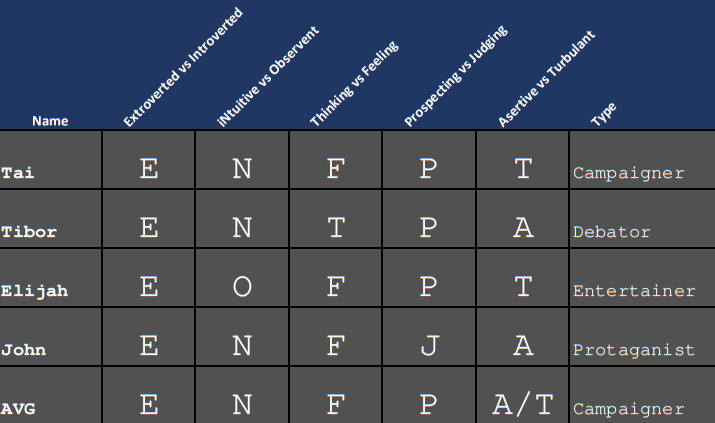
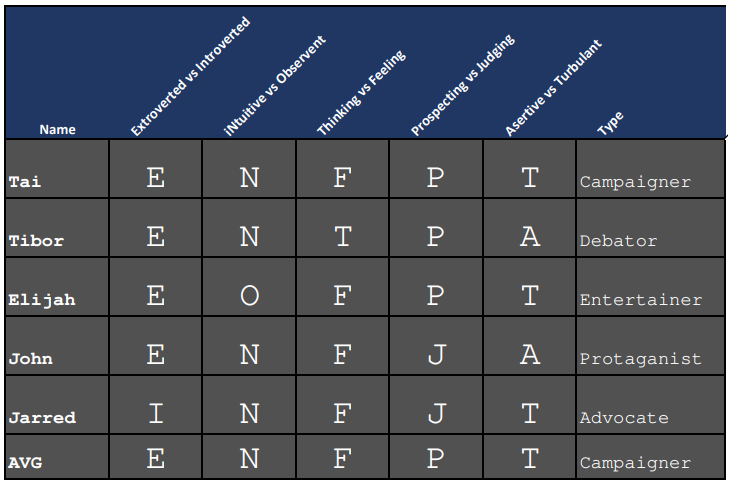
Updated Team profile with Student numbers, made back end for team profiles neater added Jarred to the team results

Changed region(s): [[0.0, 0.0, 1.0, 1.0], [0.5231, 0.0922, 0.5538, 0.1537], [0.4308, 0.0615, 0.4615, 0.0922]]

diff --git a/TeamProfile.html b/TeamProfile.html
@@ -31,6 +31,12 @@
 }
 .MarekIvanov h1 {text-align:center;
                  color: white}
+.MarekIvanov h2 {color: white;
+                text-align:center;
+                font-size: 20px;
+                font-family: 'Courier New', monospace
+                }
+        
 .MarekIvanov img{height: 200px;
                  width: auto;
                  float:left;
@@ -48,6 +54,11 @@
 .TaiTran h1 {text-align:center;
                  color: white
 }
+.TaiTran h2 {color: white;
+            text-align:center;
+            font-size: 20px;
+            font-family: 'Courier New', monospace
+            }
 .TaiTran img{height: 200px;
                  width: auto;
                  float:left;
@@ -65,6 +76,11 @@
 .TiborBulanyi h1 {text-align:center;
                   color: white
 }
+.TiborBulanyi h2 {color: white;
+                text-align:center;
+                font-size: 20px;
+                font-family: 'Courier New', monospace
+                }
 .TiborBulanyi img{height: 200px;
                   width: auto;
                   float:left;
@@ -82,6 +98,11 @@
 .ElijahGoodlet h1 {text-align:center;
                  color: white
 }
+.ElijahGoodlet h2 {color: white;
+                  text-align:center;
+                  font-size: 20px;
+                  font-family: 'Courier New', monospace
+                  } 
 .ElijahGoodlet img{height: 200px;
                    width: auto;
                    float:left;
@@ -99,6 +120,11 @@
 .JohnMufunda h1 {text-align:center;
                  color: white
 }
+.JohnMufunda h2 {color: white;
+                text-align:center;
+                font-size: 20px;
+                font-family: 'Courier New', monospace
+                }
 .JohnMufunda img{height: 200px;
                    width: auto;
                    float:left;
@@ -116,6 +142,11 @@
 .JarradHofmanAgar h1 {text-align:center;
                        color: white
 }
+.JarradHofmanAgar h2 {color: white;
+                      text-align:center;
+                      font-size: 20px;
+                      font-family: 'Courier New', monospace
+                      }
 .JarradHofmanAgar img{height: 200px;
                        width: auto;
                        float:left;
@@ -136,51 +167,97 @@
   <div class="header">
     <a href="index.html">
     <img src="Earth.jpg" alt="Earth" width="200" height="auto"></a>
-    <h1>Team Profile</h1>
+    <h1>Deep Thought's Members</h1>
     <h2><a href="TestResults.html"><b>Personality Test Results</b></a></h2>
   </div>
   <br><br>
 <div class="MarekIvanov">
-<a href="https://iffprove.github.io/Project_1/index.html"> <h1> Marek Ivanov</h1><img src="facepic.jpg" alt="Marek Ivanov"></img></a>
+<a href="https://iffprove.github.io/Project_1/index.html"> <h1> Marek Ivanov</h1><h2>SN: S3925058</h2><img src="facepic.jpg" alt="Marek Ivanov"></img></a>
+
 <p>
-Marek Ivanov was born in Estonia in the year 1995 CE. After completeing year 12, he studied diligently to be an electrician and once graduating quickly started working, manufacturing precast concrete elements for buildings across Finland. Marek came to Australia in the year 2013 in the Common Era. He started working in a custom concrete furniture studio while at the same time started learning about CNC machines, 3D printers and lasers and 3D modelling. 5 years later got a job in a modelmaking studio in Perth that uses top of the range 3d printers to make dinosaurs for museums and shows. He has been working with all aspects of 3D printing, prototyping, mold making, casting with resins and other composite materials as a freelancer and has been apart of many such projects. Marek is fluent in Estonian and English but also can speak Russian and bit of German. Marek remembers his first computer lesson fondly as a "mind blowing" experience, "The things that those computers could do was amazing". Like every other young student, Marek was in it for the games. He Played Doom3D a lot and over the years all manner of games. Seeing the rapid development in that area, from floppy discs to portable mp3 players, he was truly in awe technology, and the start of his initial interest of IT. 20 years on, Marek has learned to use many different tools from media editing, CAD design, Z Brush sculpting for 3D printing and rapid prototyping. Last Christmas, He was working on a shopfitting project where his company had to make some display windows move with stepper motors and Arduino boards. Initially he thought that would be easy to do and without much prior background took the lead on the task, quickly he understood that he didn't understand anything about it. Luckily, a friend of a friend saved the day, or night, as it were, writing the programs throughout the night in the shop. The reason Marek chose RMIT is that it gives the flexibility with time management, but also there is a sense of urgency. Having the opportunity to study on the road is great, as he likes to travel around quite a bit. So far lack of urgency has really stopped him from progressing forward with his skills. He Also likes that everything is well structured to support the learning process. Marek expect to learn new skills auch as being proficient in programming languages and techiques, and network systems. He is Looking forward to understand the methods and tools used in the computer world. Hopefully able to write useful programs that make life better at work and home.
+Marek Ivanov was born in Estonia in the year 1995 CE. After completeing year 12, he studied diligently to be an electrician and once graduating quickly started working, 
+manufacturing precast concrete elements for buildings across Finland. Marek came to Australia in the year 2013 in the Common Era. He started working in a custom concrete 
+furniture studio while at the same time started learning about CNC machines, 3D printers and lasers and 3D modelling. 5 years later got a job in a modelmaking studio in 
+Perth that uses top of the range 3d printers to make dinosaurs for museums and shows. He has been working with all aspects of 3D printing, prototyping, mold making, casting 
+with resins and other composite materials as a freelancer and has been apart of many such projects. Marek is fluent in Estonian and English but also can speak Russian and bit 
+of German. Marek remembers his first computer lesson fondly as a "mind blowing" experience, "The things that those computers could do was amazing". Like every other young 
+student, Marek was in it for the games. He Played Doom3D a lot and over the years all manner of games. Seeing the rapid development in that area, from floppy discs to 
+portable mp3 players, he was truly in awe technology, and the start of his initial interest of IT. 20 years on, Marek has learned to use many different tools from media editing, 
+CAD design, Z Brush sculpting for 3D printing and rapid prototyping. Last Christmas, He was working on a shopfitting project where his company had to make some display windows
+move with stepper motors and Arduino boards. Initially he thought that would be easy to do and without much prior background took the lead on the task, quickly he understood 
+that he didn't understand anything about it. Luckily, a friend of a friend saved the day, or night, as it were, writing the programs throughout the night in the shop. 
+The reason Marek chose RMIT is that it gives the flexibility with time management, but also there is a sense of urgency. Having the opportunity to study on the road is 
+great, as he likes to travel around quite a bit. So far lack of urgency has really stopped him from progressing forward with his skills. He Also likes that everything is 
+well structured to support the learning process. Marek expect to learn new skills auch as being proficient in programming languages and techiques, and network systems. He 
+is Looking forward to understand the methods and tools used in the computer world. Hopefully able to write useful programs that make life better at work and home.
 </p>
 </div><br><br>
 <div class="TaiTran">
-<a href="https://prettyamazinggrace.github.io/RMITassignment1/index.html"> <h1> Tai Tran</h1><img src="Tai - Headshot v1.png" alt="Tai Tran"></img></a>
+<a href="https://prettyamazinggrace.github.io/RMITassignment1/index.html"> <h1> Tai Tran</h1><h2>SN: s3918375</h2><img src="Tai - Headshot v1.png" alt="Tai Tran"></img></a>
 <p>
-Tai was born in 1987 CE, he enjoys long walks on the beach. If he can manage to find free time, sometimes he would walk 10 to 20 kilometers in the city where he lives or somewhere in nature because it helps him feel fresh, balanced and connected to the world around him. Tai's interest in IT encompasses software design, system security and artificial intelligence
-Tai's interest in IT was sparked when he was about 14 or 15 years old and starting high school, he was fascinated and amazed at how computer science and information technology can be so efficient in facilitating and improving and simplifying the way we all live, work, learn and go about our daily lives.
-He chose RMIT, because the university offers an internationally recognized high-quality education with a good environment for potential international and multicultural exchange and collaboration.
-Tai is hoping to gain in-depth knowledge into the world of computer science, to understand how computers and IT systems function and eventually create his own products with them.
+Tai was born in 1987 CE, he enjoys long walks on the beach. If he can manage to find free time, sometimes he would walk 10 to 20 kilometers in the city where he lives or somewhere
+ in nature because it helps him feel fresh, balanced and connected to the world around him. Tai's interest in IT encompasses software design, system security and artificial intelligence
+Tai's interest in IT was sparked when he was about 14 or 15 years old and starting high school, he was fascinated and amazed at how computer science and information technology can be so 
+efficient in facilitating and improving and simplifying the way we all live, work, learn and go about our daily lives. He chose RMIT, because the university offers an internationally
+recognized high-quality education with a good environment for potential international and multicultural exchange and collaboration. Tai is hoping to gain in-depth knowledge into the 
+world of computer science, to understand how computers and IT systems function and eventually create his own products with them.
+<br><br><br><br><br><br><br>
 </p>
 </div>
 <br><br>
 <div class="TiborBulanyi">
-<a href="https://tibitzu.github.io/My-Profile/"> <h1>Tibor Bulanyi</h1><img src="Tibor2.jpg" alt="Tibor Bulanyi"></img></a>
-<p>Tibor Bulanyi was born in Western Australia in 1977 CE, his father is from Hungary and his mother is from Western Australia. He hobbies include D&D, video games, world domination and of course his cat, Ronin the Rat-Slayer. Tibor completed year 12 doing a scholarship at John Curtain College of the Arts in theatre arts, originally intending to be a playwright and actor, before then starting a double major at Notre Dame University in English Literature and Philosophy, though he dropped out after 6 months due to boredom. After that, he fell into music, since he had been playing guitar since he was "knee-high to a grasshopper" and always sung. He just found that whenever he played music people just threw money at him whcih seemed better than his attempts at comedy which peoplejust laughed at, and so he made a career out of street performance and traveled the country with his guitar in hand for the next 25 years with periodic stops here and there and a trip to Europe to see his son in Belgium. Now, Tibor study IT at RMIT university. Tibor's interest in IT started like it does for most kids with video games, he had a commodore 64 for a short time, with all those oesky cassettes, before his father bought him an Amiga 1000. He was selling Star Wars figurines at the local car-boot market and so when he had enough money (around 1000 $AU) his father and him went halves in a 286 IMB compatible PC when he was 10. To his father's shock and horror, while he was out, Tibor dismantled the whole machine, and it was laying in bits on his father's office table when he returned. Tibor quickly put it back togther, but doesn't think his father ever quite recovered. He worked for a while as a computer technician when he was 14 for a year doing basic repairs, virus removal and trouble shooting. Tibor have always built his own computers from scratch to play video games and has always dreamt of making his own games.
+<a href="https://tibitzu.github.io/My-Profile/"> <h1>Tibor Bulanyi</h1><h2>SN: s3927847</h2><img src="Tibor2.jpg" alt="Tibor Bulanyi"></img></a>
+<p>Tibor Bulanyi was born in Western Australia in 1977 CE, his father is from Hungary and his mother is from Western Australia. He hobbies include D&D, video games, world domination
+  and of course his cat, Ronin the Rat-Slayer. Tibor completed year 12 doing a scholarship at John Curtain College of the Arts in theatre arts, originally intending to be a playwright
+  and actor, before then starting a double major at Notre Dame University in English Literature and Philosophy, though he dropped out after 6 months due to boredom. After that, he fell
+  into music, since he had been playing guitar since he was "knee-high to a grasshopper" and always sung. He just found that whenever he played music people just threw money at him 
+ whcih seemed better than his attempts at comedy which peoplejust laughed at, and so he made a career out of street performance and traveled the country with his guitar in hand for
+ the next 25 years with periodic stops here and there and a trip to Europe to see his son in Belgium. Now, Tibor study IT at RMIT university. Tibor's interest in IT started like 
+ it does for most kids with video games, he had a commodore 64 for a short time, with all those oesky cassettes, before his father bought him an Amiga 1000. He was selling Star Wars
+ figurines at the local car-boot market and so when he had enough money (around 1000 $AU) his father and him went halves in a 286 IMB compatible PC when he was 10. To his father's 
+ shock and horror, while he was out, Tibor dismantled the whole machine, and it was laying in bits on his father's office table when he returned. Tibor quickly put it back togther,
+ but doesn't think his father ever quite recovered. He worked for a while as a computer technician when he was 14 for a year doing basic repairs, virus removal and trouble shooting. 
+ Tibor have always built his own computers from scratch to play video games and has always dreamt of making his own games.
 </p>
 </div><br><br>
 <div class="ElijahGoodlet">
-<a href="https://elijah-goodlet.github.io/Elijah-Goodlet/index.html"> <h1>Elijah Goodlet</h1><img src="ElijahHeadshot.jpg" alt="Elijah Goodlet"></img></a>
+<a href="https://elijah-goodlet.github.io/Elijah-Goodlet/index.html"> <h1>Elijah Goodlet</h1><h2>SN: s3924904</h2><img src="ElijahHeadshot.jpg" alt="Elijah Goodlet"></img></a>
 <p>
-Elijah was born in 2002 CE and has had an interest in IT from as long as he can remember, specifically game design but also just general programming and design. He enjoys making stuff and using IT tools that allows him to do much with very little. Elijah has a fascination of his about where he can start with nothing and then output an awesome display that continues to drive him  forward. Indie game developers inspire his passion in IT. Some examples: Dani Dev, Code Bullet, Coffee stain studios. He admires their perspective on features and tools that most people overlook and take for granted. They help him appreciate the smaller parts of programs, from simple UIs to entire physics engines. Due to complications involving his previous education establishment, he received his Cert IV too late to apply to local Universities. Looking for alternatives, he found RMIT which was an IT specialist university and had late entry. It was an obvious choice especially considering the university’s good
-reputation. From this course, Elijah is keen to take away not only know how to program but also obtain a broader knowledge on IT. He is uber keen to learn to work in a university environment and the associated pressure and responsibility that comes with it.
+Elijah was born in 2002 CE and has had an interest in IT from as long as he can remember, specifically game design but also just general programming and design. He enjoys making stuff
+and using IT tools that allows him to do much with very little. Elijah has a fascination of his about where he can start with nothing and then output an awesome display that continues
+to drive him  forward. Indie game developers inspire his passion in IT. Some examples: Dani Dev, Code Bullet, Coffee stain studios. He admires their perspective on features and tools
+that most people overlook and take for granted. They help him appreciate the smaller parts of programs, from simple UIs to entire physics engines. Due to complications involving his
+previous education establishment, he received his Cert IV too late to apply to local Universities. Looking for alternatives, he found RMIT which was an IT specialist university and
+had late entry. It was an obvious choice especially considering the university’s good reputation. From this course, Elijah is keen to take away not only know how to program but also 
+obtain a broader knowledge on IT. He is uber keen to learn to work in a university environment and the associated pressure and responsibility that comes with it.
 </p>
 </div>
 <br><br>
 <div class="JohnMufunda">
-<a href="https://therealjohn-m.github.io/COSC2196-IIT/index.html"><h1>John Mufunda</h1><img src="John Mufunda - Headshot v1.png" alt="John Mufunda"></img></a>
+<a href="https://therealjohn-m.github.io/COSC2196-IIT/index.html"><h1>John Mufunda</h1><h2>SN: s3925460</h2><img src="John Mufunda - Headshot v1.png" alt="John Mufunda"></img></a>
 <p>
-John was born in 2000 CE in Perth, WA and is a university student at RMIT. He would describe himself as a multifaceted person with many interests but one who also participate in many of them, these interests being; Sports, Music, Food, Computers, Gaming and Art (photography). John is someone who is open to trying different things, experiencing all that the world has to offer and sharing those experiences with family, friends, and people that he meets who also engage in the same interests. An interesting fact about John would be that he is a photographer and this is one of his creative outlets, with the support of friends and family he has been able to capture cool moments and express himself creatively in personal and semi professional projects. John's interest in IT extends to both hardware and software, encompassing computers, smartphones and gaming. He finds interest in how these technologies change and innovate, but how they allow the user to exercise their creativity, individuality and allows them to help others through these different devices. Having additional interest in art and photography John wants to explore further how these fields interweave and are able to enhance each other, as he believe technology allows for art to evolve and expands the ways we are able to express ourselves, just as a painter’s creative expression is through painting, a programmer’s creative expression is through coding. The fusion of art and technology is something he endeavours to continue to uncover and see how he is able to impact these two fields for himself, family & friends, community or possibly globally.
+John was born in 2000 CE in Perth, WA and is a university student at RMIT. He would describe himself as a multifaceted person with many interests but one who also participate in 
+many of them, these interests being; Sports, Music, Food, Computers, Gaming and Art (photography). John is someone who is open to trying different things, experiencing all that the 
+world has to offer and sharing those experiences with family, friends, and people that he meets who also engage in the same interests. An interesting fact about John would be that 
+he is a photographer and this is one of his creative outlets, with the support of friends and family he has been able to capture cool moments and express himself creatively in personal
+and semi professional projects. John's interest in IT extends to both hardware and software, encompassing computers, smartphones and gaming. He finds interest in how these technologies
+change and innovate, but how they allow the user to exercise their creativity, individuality and allows them to help others through these different devices. Having additional interest 
+in art and photography John wants to explore further how these fields interweave and are able to enhance each other, as he believe technology allows for art to evolve and expands the 
+ways we are able to express ourselves, just as a painter’s creative expression is through painting, a programmer’s creative expression is through coding. The fusion of art and technolog
+is something he endeavours to continue to uncover and see how he is able to impact these two fields for himself, family & friends, community or possibly globally.
 </p>
 </div>
 <br><br>
 <div class="JarradHofmanAgar">
-<a href="construction.html"><h1>Jarrad Hofman-Agar</h1><img src="under-construction.jpg" alt="Jarrad Hofman-Agar"></img></a>
+<a href="construction.html"><h1>Jarrad Hofman-Agar</h1><h2>SN: XXXXXXX</h2><img src="under-construction.jpg" alt="Jarrad Hofman-Agar"></img></a>
 <p>
-Jarrad was born in 1992 CE, after conpleting year 12 and went on to study at the University of life having been to Europe and America twice, he is an avid motorsport fan and will stay up late to watch Formula 1 wherever it is in the world. Jarrad was born in Australia but has a Dutch family background with the ability to speak some Dutch. His mother is a first generation born Australian, being able to fluidly switch between Dutch and English. His hobbies, when he has the is to go sim racing on his computer and/or console, working on his car. Jarrad got into sim racing mainly because driving a real race car does cost a lot of money whereas sim racing costs only a fraction of the amount that it would to set up a real car to go racing with. My interest in IT started during school during a work experience week where I went to a local
-IT shop for my work experience week many years ago in school, I enjoyed the practical side of assembling and disassembling computers. As of late, I’ve developed a partnership with a friend who builds my computers to specifications, getting a percentage of money on top for me doing their build specification and pickup/delivery of the computer, as well as doing all the set up work to allow the computer to be fully functional.
+Jarrad was born in 1992 CE, after conpleting year 12 and went on to study at the University of life having been to Europe and America twice, he is an avid motorsport fan and will stay 
+up late to watch Formula 1 wherever it is in the world. Jarrad was born in Australia but has a Dutch family background with the ability to speak some Dutch. His mother is a first 
+generation born Australian, being able to fluidly switch between Dutch and English. His hobbies, when he has the is to go sim racing on his computer and/or console, working on his 
+car. Jarrad got into sim racing mainly because driving a real race car does cost a lot of money whereas sim racing costs only a fraction of the amount that it would to set up a real 
+car to go racing with. Jarred's interest in IT started during school during a work experience week where I went to a local IT shop for my work experience week many years ago in school, 
+he enjoyed the practical side of assembling and disassembling computers. As of late, he has developed a partnership with a friend who builds my computers to specifications, 
+getting a percentage of money on top for him doing their build specification and pickup/delivery of the computer, as well as doing all the set up work to allow the computer to be fully functional.
 </p>
 </div>
 <br><br>

diff --git a/TestResults.html b/TestResults.html
@@ -42,6 +42,29 @@
              color: white
 }
   .myers img{}
+
+  .learningStyles {margin-right: 300px;
+             margin-left: 300px;
+             border: 5px solid black;
+             background-color: black;
+             text-align: left;
+             height: auto;
+             font-size: 15px;
+             color: white
+}
+  .learningStyles img{}
+
+  .BrainHemisphere {margin-right: 300px;
+             margin-left: 300px;
+             border: 5px solid black;
+             background-color: black;
+             text-align: left;
+             height: auto;
+             font-size: 15px;
+             color: white
+}
+  .BrainHemisphere img{}
+
 </style>
 </head>
 <body>
@@ -78,13 +101,14 @@
       <br>
       Our group's results are to the right! -------><br>
       <br>
-      <b>-We are all extroverts.</b> 
+      <b>-We are primarly Extroverts.</b><br> 
       &emsp;This is very helpful for working as a group. This means meetings are often good ways for us to catch up.<br>
-      &emsp; overall the group being extroverted has made bonding with eachother much easier as we all are relaxed with talking<br>
+      &emsp;overall the group being extroverted has made bonding with eachother much easier as we are relaxed with talking<br>
+      &emsp;hopefully jarred finds it easeir to intergate with the encouragement from the extroverts.<br>
       <b>-We are primarly Intuitive.</b><br>
-      &emsp; This has been useful as we have been able to focus on tasks given to us and needed very little teaching from the group<br>
-      &emsp; as any information we were missing could be independently found. Elijah has been given help with mini tutorials as he<br>
-      &emsp; needs<br>
+      &emsp;This has been useful as we have been able to focus on tasks given to us and needed very little teaching from the <br>
+      &emsp;group as any information we were missing could be independently found. Elijah has been given help with mini <br>
+      &emsp;tutorials as he needs<br>
       <b>-We are primarly Feeling</b><br>
       &emsp;This has shown as we all seem fairly attached to our contributions to page allowing our passion to flow through.<br>
       &emsp;This can cause issues as critizem is very easy missread as an attack on a person rather than the work itself<br>
@@ -92,17 +116,27 @@
       &emsp;for settling arguments in an objective mannor by being a thinker<br>
       <b>-We are primarly Prospecting</b><br>
       &emsp;This is good because most of us have been accepting of all jobs that get tasked to them but could cause issues<br>
-      &emsp;in the form of lack of strucuture.
-      <b>-We split between Assertive and Turbulent</b><br>
-      &emsp;This balance urges the group as a whole to strive to be as good as they possibly can but allows the group to accept their work.<br>
-      &emsp;Elijah and Tai probably find it useful to be grounded in reality to make sure that they're not overwhelming themselves.<br>
-      &emsp;Tibor and John can ensure that the groups work has reasonable and reachable goals.
-
-
+      &emsp;in the form of lack of strucuture. John is an asset in regard as he as a talent for staying on track and ensuring<br>
+      &emsp;The group is doing what is required.<br>
+      <b>-We are primarly Turbulent</b><br>
+      &emsp;This balance urges the group as a whole to strive to be as good as they possibly can but allows the group to accept <br>
+      &emsp;their work. Elijah, Tai and jarred probably find it useful to be grounded in reality to make sure that they're not <br>
+      &emsp;overwhelming themselves. Tibor and John can ensure that the groups work has reasonable and reachable goals.<br>
     </p>
-      
   </div>
   
+  <div class="learningStyles">
+    <h2>learning Styles</h2>
+    <p>
+      qwertyuiopasdfghjklzxcvbnm
+    </p>
+  </div>
 
+  <div class="BrainHemisphere">
+    <h2>Left Brain vs Right Brain</h2>
+    <p>
+      qwertyuiopasdfghjklzxcvbnm
+    </p>
+  </div>
 </body>
 </html>
